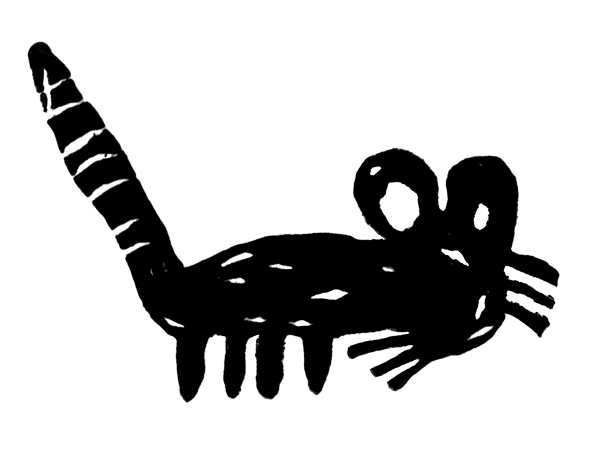
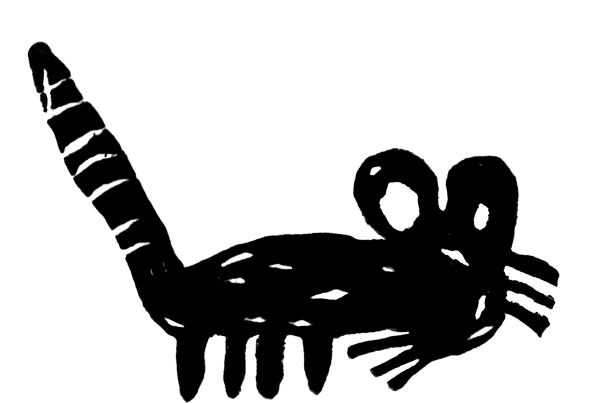
act ratita

Changed region(s): [[0.03, 0.0893, 0.93, 1.0], [0.51, 0.6253, 0.6, 0.6551], [0.45, 0.6551, 0.48, 0.6849]]

diff --git a/docs/entradas/styles/style_1.css b/docs/entradas/styles/style_1.css
@@ -2,36 +2,36 @@
 
 @font-face {
     font-family: 'Avara_Bold';
-    src:    url('fonts/fonts/Avara-Bold_web.eot');
-    src:    url('fonts/Avara-Bold_web.eot?#iefix') format('embedded-opentype'),
-            url('fonts/Avara-Bold_web.woff') format('woff'),
-            url('fonts/Avara-Bold_web.woff2') format('woff2'),
-            url('fonts/Avara-Bold_web.ttf') format('truetype'),
-            url('fonts/Avara-Bold_web.svg#svgFontName') format('svg');
+    src: url('fonts/fonts/Avara-Bold_web.eot');
+    src: url('fonts/Avara-Bold_web.eot?#iefix') format('embedded-opentype'),
+        url('fonts/Avara-Bold_web.woff') format('woff'),
+        url('fonts/Avara-Bold_web.woff2') format('woff2'),
+        url('fonts/Avara-Bold_web.ttf') format('truetype'),
+        url('fonts/Avara-Bold_web.svg#svgFontName') format('svg');
     font-weight: normal;
     font-style: normal;
 }
 
 @font-face {
     font-family: 'Avara_Bold Italic';
-    src:    url('fonts/Avara-Bold_Italic_web.eot');
-    src:    url('fonts/Avara-Bold_Italic_web.eot?#iefix') format('embedded-opentype'),
-            url('fonts/Avara-Bold_Italic_web.woff') format('woff'),
-            url('fonts/Avara-Bold_Italic_web.woff2') format('woff2'),
-            url('fonts/Avara-Bold_Italic_web.ttf') format('truetype'),
-            url('fonts/Avara-Bold_Italic_web.svg#svgFontName') format('svg');
+    src: url('fonts/Avara-Bold_Italic_web.eot');
+    src: url('fonts/Avara-Bold_Italic_web.eot?#iefix') format('embedded-opentype'),
+        url('fonts/Avara-Bold_Italic_web.woff') format('woff'),
+        url('fonts/Avara-Bold_Italic_web.woff2') format('woff2'),
+        url('fonts/Avara-Bold_Italic_web.ttf') format('truetype'),
+        url('fonts/Avara-Bold_Italic_web.svg#svgFontName') format('svg');
     font-weight: normal;
     font-style: normal;
 }
 
 @font-face {
     font-family: 'Avara_Black';
-    src:    url('fonts/Avara-Black_web.eot');
-    src:    url('fonts/Avara-Black_web.eot?#iefix') format('embedded-opentype'),
-            url('fonts/Avara-Black_web.woff') format('woff'),
-            url('fonts/Avara-Black_web.woff2') format('woff2'),
-            url('fonts/Avara-Black_web.ttf') format('truetype'),
-            url('fonts/Avara-Black_web.svg#svgFontName') format('svg');
+    src: url('fonts/Avara-Black_web.eot');
+    src: url('fonts/Avara-Black_web.eot?#iefix') format('embedded-opentype'),
+        url('fonts/Avara-Black_web.woff') format('woff'),
+        url('fonts/Avara-Black_web.woff2') format('woff2'),
+        url('fonts/Avara-Black_web.ttf') format('truetype'),
+        url('fonts/Avara-Black_web.svg#svgFontName') format('svg');
     font-weight: normal;
     font-style: normal;
 }
@@ -68,26 +68,36 @@ body {
     margin: 0 auto;
     font-family: "Mingzat", sans-serif;
     line-height: 1.65;
-    background: linear-gradient(180deg, rgba(217,197,209,1) 0%, rgba(255,246,251,1) 100%);
+    background: linear-gradient(180deg, rgba(217, 197, 209, 1) 0%, rgba(255, 246, 251, 1) 100%);
     letter-spacing: -.25px;
 }
-img{
+
+img {
     mix-blend-mode: multiply;
 }
+
 p {
     font-size: 1.05em;
     margin: var(--vspace) 0;
     line-height: var(--vspace);
 }
 
-a, p a, .menu a{
+a,
+p a,
+.menu a {
     text-decoration: underline;
     color: blue;
 }
-a:hover, a:focus p a:hover, p a:focus, menu a:hover, .menu a:focus {
+
+a:hover,
+a:focus p a:hover,
+p a:focus,
+menu a:hover,
+.menu a:focus {
     text-decoration: none;
     color: blue;
 }
+
 h1,
 h2,
 h3,
@@ -204,15 +214,18 @@ hr {
     border-bottom: 1px solid black;
     border-left: 0;
 }
-.button{
+
+.button {
     background: blue;
     border-radius: 50px;
 }
-.button:hover{
-    background: rgb(0,0,0,0.9);
+
+.button:hover {
+    background: rgb(0, 0, 0, 0.9);
 }
+
 #featured-image {
-    height: 55vh;
+    height: 60vh;
     overflow: hidden;
 }
 
@@ -220,6 +233,7 @@ hr {
     border-right: 1px solid rgba(0, 0, 0, 1);
     min-height: 100vh;
     padding-bottom: 12rem;
+
     h1 {
         padding: 0.5rem 2rem 0;
         margin: 0;
@@ -276,13 +290,15 @@ hr {
         h2 {
             height: 45vh;
         }
+
         img {
             margin: 2rem 0;
         }
     }
 }
 
-.menu .button, .menu a{
+.menu .button,
+.menu a {
     margin: 0;
 }
 
@@ -330,16 +346,24 @@ hr {
     font-weight: 500;
 }
 
+#rata-moviles {
+    position: fixed;
+    bottom: 0;
+    max-width: 130px;
+    right: 0;
+}
 
 /* Small only */
 @media screen and (max-width: 39.9375em) {
     h1 {
         margin-bottom: 0;
+
         img {
             mix-blend-mode: multiply;
             text-align: center;
         }
     }
+
     .menu.expanded {
         display: none;
     }
@@ -351,6 +375,7 @@ hr {
             margin-right: 1rem;
         }
     }
+
     #sidebar {
         display: none;
     }
@@ -362,15 +387,18 @@ hr {
     figcaption {
         padding: 1rem 0;
     }
+
     #templateBody {
         background-color: none !important;
         box-shadow: none !important;
-      }
-      .formEmailButtonOval{
+    }
+
+    .formEmailButtonOval {
         border-radius: 5px !important;
-      }
+    }
 }
-.refferal_badge{
+
+.refferal_badge {
     position: absolute;
     bottom: 20px;
     right: 0;
@@ -433,8 +461,10 @@ hr {
     .menu.expanded {
         display: none;
     }
+
     h1 {
         margin-bottom: 0;
+
         img {
             mix-blend-mode: multiply;
             text-align: center;
